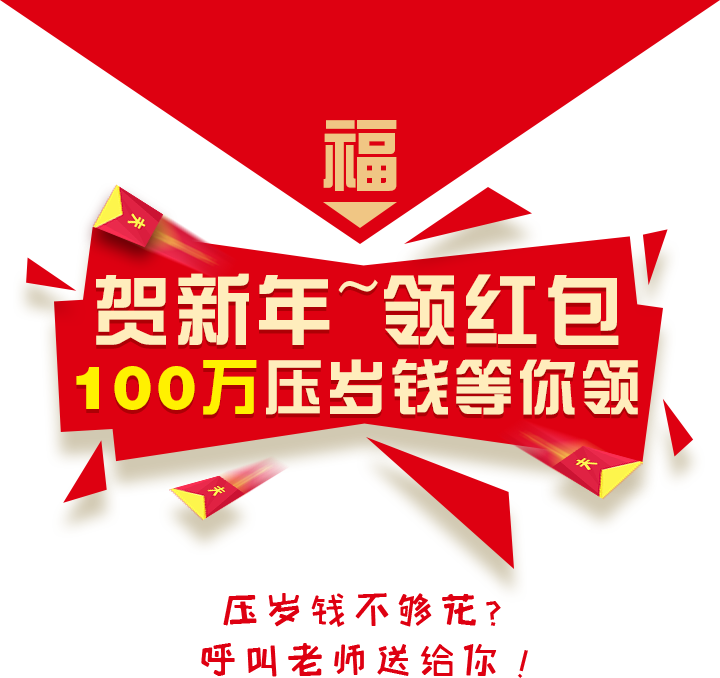
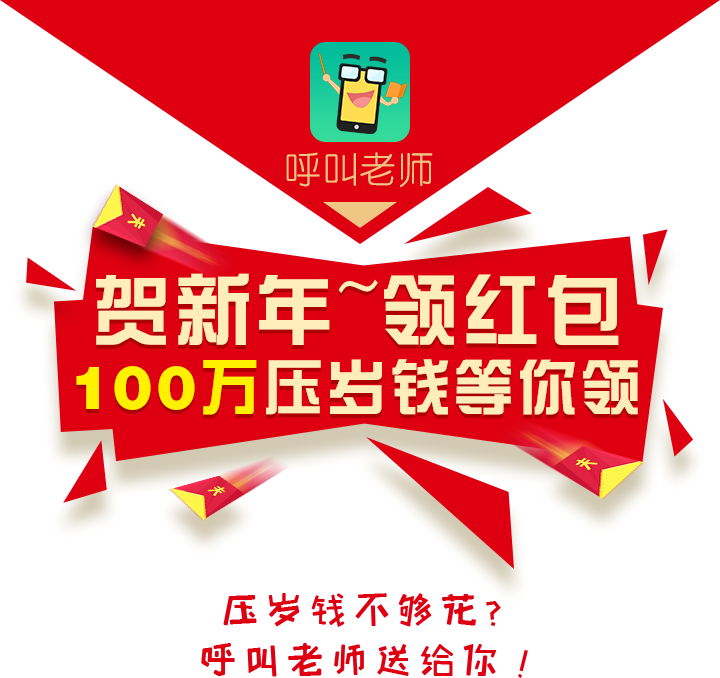
学时卡介绍

Changed region(s): [[0.3972, 0.0619, 0.6111, 0.2788]]

diff --git a/teacherOnline/各种上岗须知/card-instruction.html b/teacherOnline/各种上岗须知/card-instruction.html
@@ -1,0 +1,125 @@
+<!DOCTYPE html PUBLIC "-//W3C//DTD XHTML 1.0 Transitional//EN"
+        "http://www.w3.org/TR/xhtml1/DTD/xhtml1-transitional.dtd">
+<html xmlns="http://www.w3.org/1999/xhtml">
+<head>
+    <!---<meta name="viewport" content="width=device-width"/>--->
+    <meta name="viewport"
+          content="width=device-width, initial-scale=1.0, maximum-scale=1.0, minimum-scale=1.0, user-scalable=no"/>
+    <meta http-equiv="Content-Type" content="text/html; charset=utf-8"/>
+    <meta name="format-detection" content="telephone=no">
+    <meta name="format-detection" content="email=no">
+    <style>
+        body, dl, dd, h1, h2, h3, h4, h5, h6, p, form {
+            margin: 0;
+        }
+
+        ol, li, ul {
+            margin: 0;
+            padding: 0;
+        }
+
+        body {
+            font-size: 14px;
+            font-family: "Microsoft YaHei";
+            background: #F6F6F6;
+            padding-bottom: 10px;
+            -webkit-user-select: none;
+            -moz-user-select: none;
+            -o-user-select: none;
+            user-select: none;
+            tap-highlight-color: transparent;
+            tap-highlight-color: rgba(0, 0, 0, 0);
+            -webkit-tap-highlight-color: transparent;
+            -webkit-tap-highlight-color: rgba(0, 0, 0, 0);
+            -webkit-touch-callout: none;
+        }
+
+        li {
+            list-style: none;
+        }
+
+        .topicTitle {
+            text-align: center;
+            font-size: 20px;
+            margin: 20px auto;
+        }
+
+        .itemTitle {
+            display: block;
+            background: #eee;
+            font-weight: bold;
+            /*height:60px;*/
+            /*line-height:60px;*/
+            margin: 0 0 20px 0;
+            padding: 16px 0 16px 2.5%;
+            font-size:16px;
+        }
+
+        ul > li > ul {
+            margin-bottom: 20px;
+        }
+
+        ul > li > ul > li {
+            width: 95%;
+            margin: 10px auto;
+            line-height: 20px;
+            text-align:justify;
+        }
+
+        #mask {
+            position: fixed;
+            left: 0;
+            bottom: 0;
+            width: 100%;
+            height: 10px;
+            background: #fff;
+        }
+
+        a {
+            color: #4cae68
+        }
+    </style>
+    <title>学时使用攻略</title>
+</head>
+<body>
+<ul>
+    <li><span class="itemTitle">~(￣▽￣)~ 寒假买什么卡</span>
+        <ul>
+            <li>
+                1. 噔噔噔噔~~性价比之最：包时段卡（包月卡&包周卡）！包时段卡的神奇特权，就是在“所包时段内，不限次、不限时任意呼叫老师”，简直是VIP待遇！寒假买了包月卡，妈妈再也不用担心我的学时不够用啦~~
+            </li>
+            <li>
+                2. 购买多张学时卡是按照订单的先后顺序依次激活哦~抽奖获得的卡，也跟购买的卡一起，按顺序激活。
+            </li>
+        </ul>
+    </li>
+    <li><span class="itemTitle">~(～￣▽￣)～ 寒假妙招</span>
+        <ul>
+            <li>
+                1. 寒假都去玩了？ NONONO，寒假才是逆袭的好时机！尤其是约个老师， 帮忙预习明年的课程，一开学分分钟变学霸！
+            </li>
+            <li>
+                2. 老师们寒假时间较多，在线的老师比较充足，同学们也可以跟老师约时间提问哦。
+            </li>
+        </ul>
+    </li>
+    <li><span class="itemTitle">(～￣▽￣)～ 温馨提示</span>
+        <ul>
+            <li>
+                1.老师虽好，可不要依赖哦~~每天1~2小时辅导为宜，也要给自己预留独立思考的时间ha~~
+            </li>
+            <li>
+                2.小呼老师建议：想试用呼叫老师的小伙伴可以先从福利卡入手啊~~因为很便宜~~~
+            </li>
+        </ul>
+        <ul>
+            <li style="text-align: right;margin-top: 50px;">
+                ——爱你们的小呼老师
+            </li>
+        </ul>
+    </li>
+    <li style="text-align:center;font-size:12px;margin-top: 60px;">寒假呼叫过的老师，都是下学期高起跑线的见证！</li>
+</ul>
+<div id="mask"></div>
+</body>
+</html>
